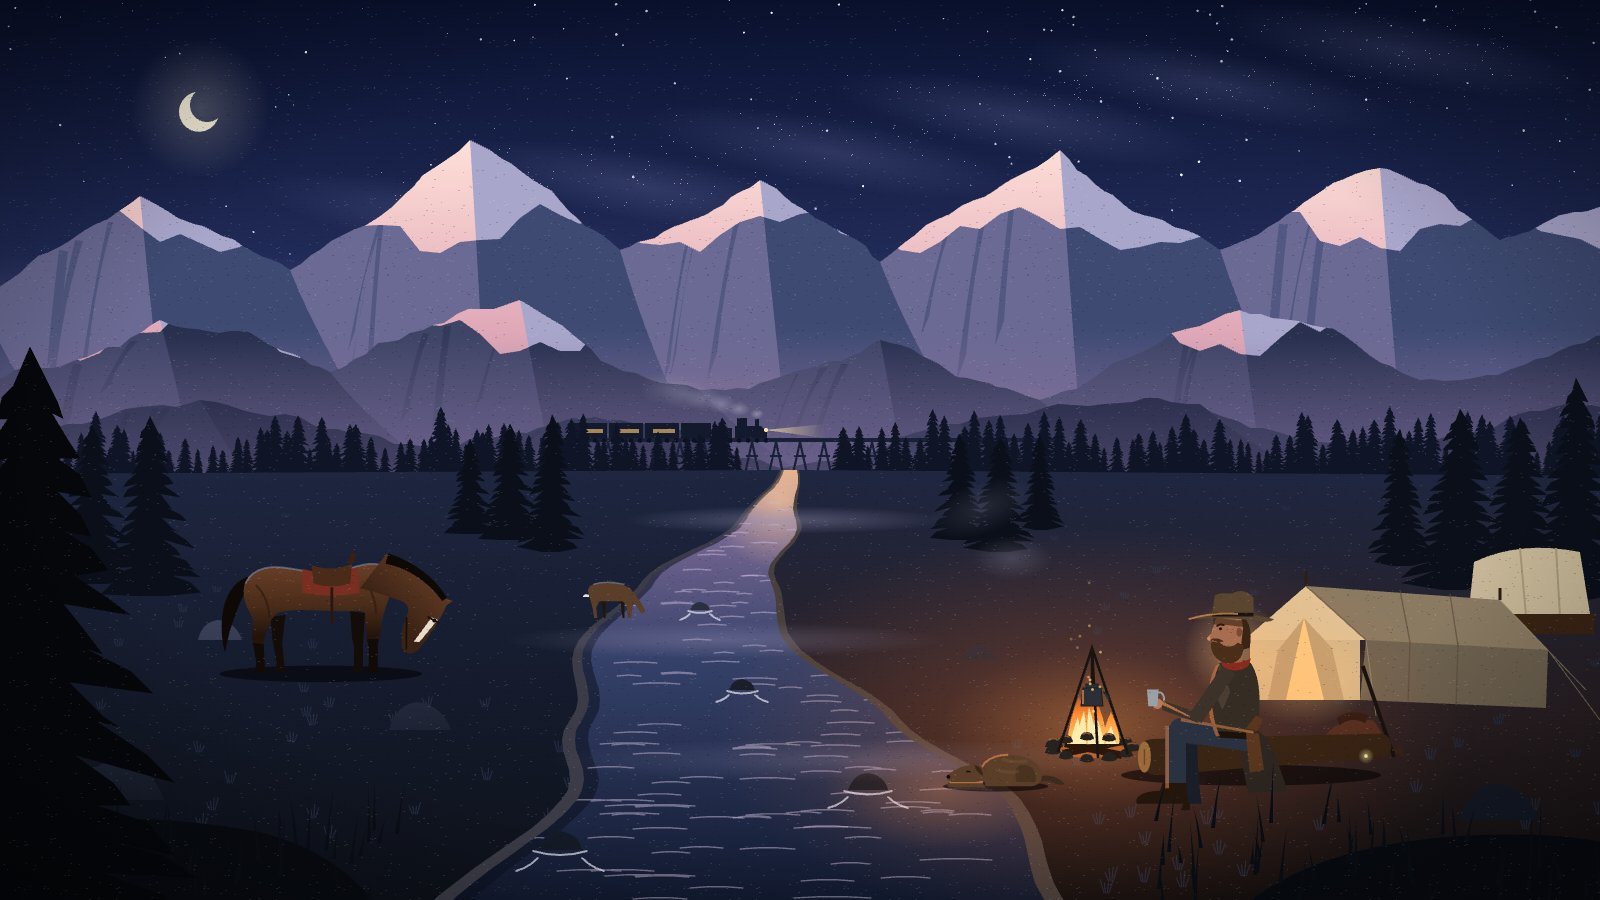
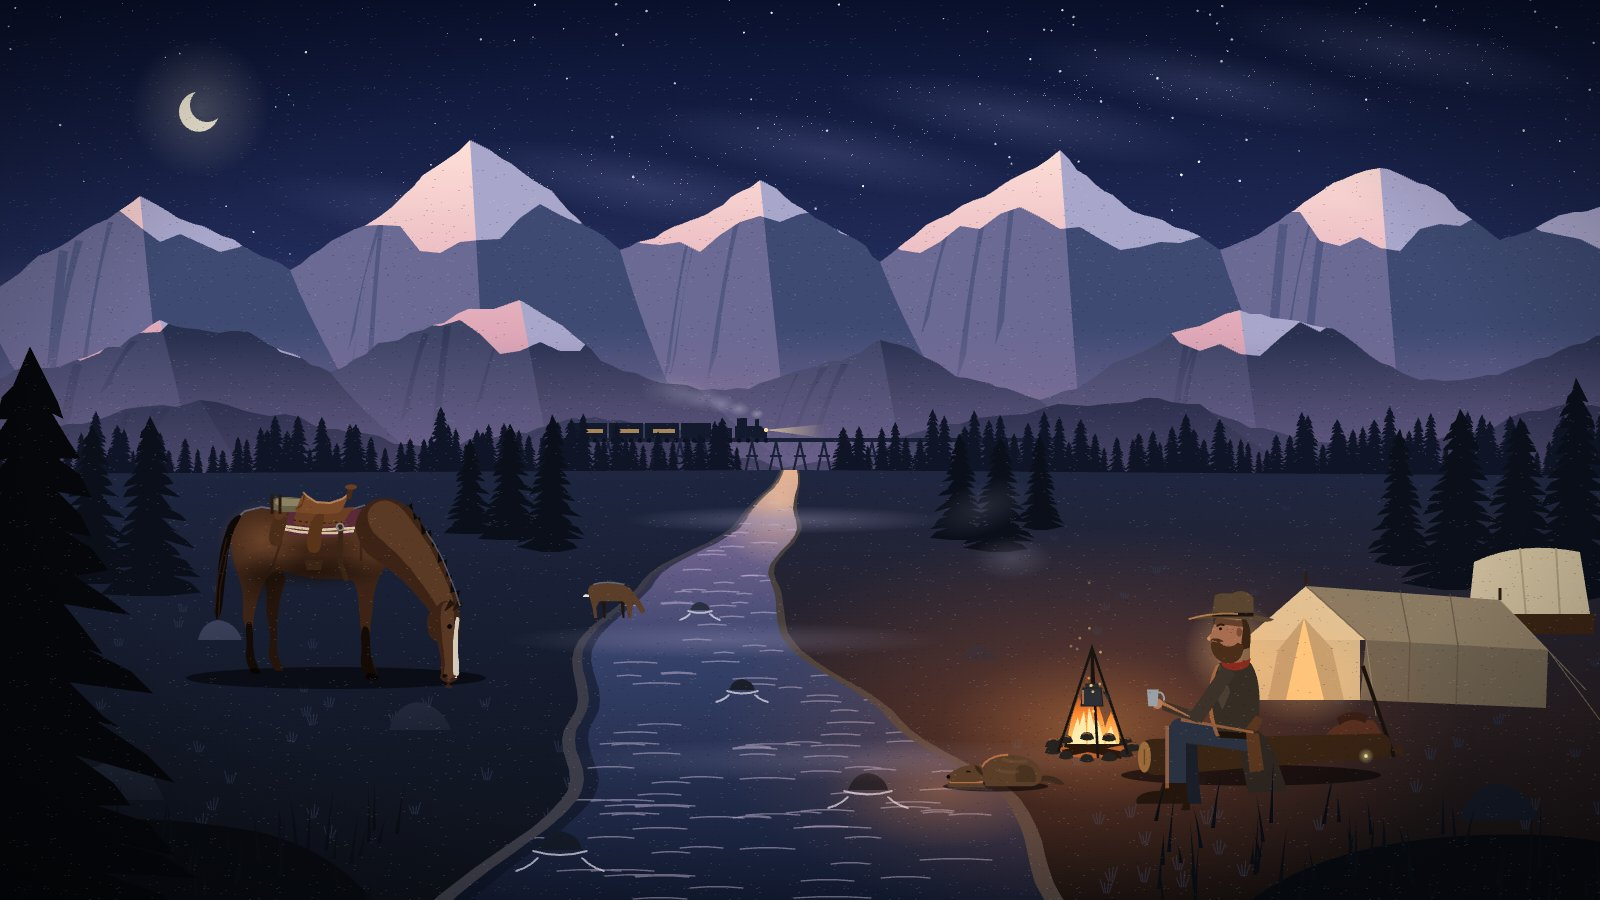
feat: rebuild the Red Dead Redemption 2 horse
The horse is now one shape: the hindquarter runs down into the gaskin and
the hock, the shoulder into the forearm, with lean lower legs, a sloped
pastern and hooves. The neck grows from the whole front of the shoulder
and bends to graze without a break. A western saddle sits on the barrel,
and the tail falls close down the back of the thigh.

Changed region(s): [[0.125, 0.5289, 0.3125, 0.7778]]

diff --git a/plugins/red-dead-redemption-2/hooks/scene.js b/plugins/red-dead-redemption-2/hooks/scene.js
@@ -364,35 +364,290 @@ function land() {
 
 // ---------------------------------------------------------------- the horse
 
-// A bay horse grazing on the left bank, side on, facing right: a brown coat shaded
-// darker underneath, black mane, tail and lower legs, a white blaze. Its neck lowers
-// to the grass and rises again; its tail swishes.
-function horse() {
-  const body = 'M-60 -114C-78 -114 -94 -104 -94 -88C-94 -76 -88 -66 -84 -58C-84 -48 -86 -40 -84 -32L-80 -10L-82 0H-70L-71 -10L-72 -30C-70 -44 -66 -56 -58 -64C-40 -70 -10 -66 16 -66C26 -66 34 -68 38 -64L40 -36L42 -28L42 -8L40 0H52L52 -8L52 -30L54 -40C56 -56 60 -70 64 -80C70 -96 66 -108 56 -116C40 -122 20 -110 0 -108C-20 -106 -40 -114 -60 -114Z'
-  const socks = 'M-84 -32L-80 -10L-82 0H-70L-71 -10L-72 -30ZM40 -36L42 -28L42 -8L40 0H52L52 -8L52 -30L53 -36Z'
-  const farLegs = 'M-66 -60C-62 -48 -64 -40 -62 -32L-58 -10L-60 0H-48L-50 -10L-52 -32C-50 -44 -50 -54 -48 -62ZM22 -66L24 -36L26 -28L26 -8L24 0H36L36 -8L36 -30L38 -64Z'
-  const neck = 'M34 -116C50 -140 76 -158 98 -164L103 -171L106 -163L112 -158C122 -148 136 -132 144 -120C148 -112 144 -104 136 -104C126 -106 114 -110 106 -118C96 -126 90 -122 84 -112C76 -100 68 -90 62 -78Z'
-  const mane = 'M34 -118C50 -142 74 -160 98 -166L100 -160C78 -152 56 -136 44 -112Z'
-  const blaze = 'M118 -150L136 -124L134 -118L114 -144Z'
-  const tail = 'M-90 -104Q-112 -90 -110 -56Q-108 -34 -100 -18Q-100 -44 -96 -60Q-94 -78 -88 -90Z'
-  const muscle = 'M-80 -94C-70 -84 -66 -70 -66 -60M40 -96C46 -86 50 -76 50 -64M-20 -100C-10 -98 10 -98 30 -104'
-  const piv = '56 -104'
-  const graze = timeline('', 23, [[0, `0 ${piv}`], [4, `14 ${piv}`], [4.5, `30 ${piv}`], [5, `48 ${piv}`], [5.5, `62 ${piv}`], [6, `74 ${piv}`], [14, `66 ${piv}`], [14.5, `48 ${piv}`], [15, `28 ${piv}`], [15.5, `10 ${piv}`], [16, `0 ${piv}`]], 'rotate')
-  const swish = timeline('', 7, [[0, '0 -90 -100'], [2, '10 -90 -100'], [2.25, '18 -90 -100'], [2.5, '8 -90 -100'], [2.75, '-6 -90 -100'], [3, '0 -90 -100']], 'rotate')
-  return `<g transform="translate(330 672) scale(0.92)">` +
-    `<ellipse cx="-10" cy="2" rx="110" ry="9" fill="#05070c" opacity="0.7"/>` +
-    `<path d="${farLegs}" fill="#140c08"/>` +
-    `<g>${swish}<path d="${tail}" fill="#0e0806"/></g>` +
-    `<path d="${body}" fill="url(#r-bay)"/><path d="${socks}" fill="#120a06"/>` +
-    `<path d="${muscle}" fill="none" stroke="#2a180e" stroke-width="2.4" opacity="0.6" stroke-linecap="round"/>` +
-    `<path d="M-92 -96C-86 -110 -72 -114 -60 -114C-40 -114 -20 -106 0 -108C20 -110 40 -122 56 -116" fill="none" stroke="#8a9ac0" stroke-width="2" opacity="0.5"/>` +
-    // The saddle: tree, horn, skirt, a blanket under it, the cinch.
-    `<path d="M-30 -112Q0 -104 30 -114L32 -86Q2 -80 -30 -86Z" fill="#7a2e22"/><path d="M-20 -116Q4 -108 24 -118L22 -96Q2 -90 -18 -96Z" fill="#4a2a18"/>` +
-    `<path d="M18 -118l6 -12l5 2l-4 10z" fill="#3a2010"/><path d="M2 -92v40" stroke="#2a160e" stroke-width="3"/>` +
-    `<g>${graze}<path d="${neck}" fill="url(#r-bayN)"/><path d="${mane}" fill="#0e0806"/><path d="${blaze}" fill="#e8dccc"/><circle cx="118" cy="-146" r="2.2" fill="#0a0604"/>` +
-    `<path d="M106 -118Q126 -112 140 -108M112 -140L122 -150" stroke="#1a100a" stroke-width="2" fill="none"/></g>` +
-    `</g>`
+// A bay horse grazing on the left bank, built in 3D: the body, neck, head, legs and
+// tail are tubes along a skeleton in metres, seen through a camera from in front
+// and to the left of it, so it has real depth and foreshortening. Each tube is
+// drawn as its projected outline, then a lighter core shifted up for the rounded
+// top and a cold rim of sky light. The neck is a chain from the withers to the poll
+// that bends down to the grass and back up, in six poses swapped on the clock; the
+// tail swishes. x runs forward, y to the horse's right (the near side is y < 0),
+// z up.
+const HC = { yaw: -22, D: 11, F: 1150, eye: 1.5, cx: 326, gy: 676 }
+function hp(x, y, z) {
+  const c = Math.cos((HC.yaw * Math.PI) / 180)
+  const s = Math.sin((HC.yaw * Math.PI) / 180)
+  const xr = x * c - y * s
+  const d = HC.D + x * s + y * c
+  return [HC.cx + (HC.F * xr) / d, HC.gy + (HC.F * (HC.eye - z)) / d - (HC.F * HC.eye) / HC.D, d]
 }
+// A tube along 3D points [x, y, z, r]: its projected outline with round ends, as a
+// path; `lift` shifts it up by part of its radius and `k` scales the radius, for
+// the lit core.
+function htube(pts0, k = 1, lift = 0) {
+  // Resample the skeleton along a Catmull-Rom curve, so joints bend smoothly.
+  const pts3 = []
+  for (let i = 0; i < pts0.length - 1; i++) {
+    const p0 = pts0[Math.max(0, i - 1)]
+    const p1 = pts0[i]
+    const p2 = pts0[i + 1]
+    const p3 = pts0[Math.min(pts0.length - 1, i + 2)]
+    const steps = pts0.length > 6 ? 1 : pts0.length > 3 ? 2 : 3
+    for (let j = 0; j < steps; j++) {
+      const t = j / steps
+      pts3.push(p1.map((_, c) => 0.5 * (2 * p1[c] + (-p0[c] + p2[c]) * t + (2 * p0[c] - 5 * p1[c] + 4 * p2[c] - p3[c]) * t * t + (-p0[c] + 3 * p1[c] - 3 * p2[c] + p3[c]) * t * t * t)))
+    }
+  }
+  pts3.push(pts0[pts0.length - 1])
+  const P = pts3.map(([x, y, z, r]) => {
+    const [X, Y, d] = hp(x, y, z)
+    const sr = (r * HC.F) / d
+    return [X, Y - lift * sr, sr * k]
+  })
+  const n = P.length
+  const L = []
+  const R = []
+  const T = []
+  for (let i = 0; i < n; i++) {
+    const a = P[Math.max(0, i - 1)]
+    const b = P[Math.min(n - 1, i + 1)]
+    let tx = b[0] - a[0]
+    let ty = b[1] - a[1]
+    const l = Math.hypot(tx, ty) || 1
+    tx /= l
+    ty /= l
+    T.push([tx, ty])
+    L.push([P[i][0] - ty * P[i][2], P[i][1] + tx * P[i][2]])
+    R.push([P[i][0] + ty * P[i][2], P[i][1] - tx * P[i][2]])
+  }
+  const cap = (i, dir) => {
+    const [x, y, sr] = P[i]
+    const [tx, ty] = T[i]
+    const out = []
+    for (const a of [0.5, 0, -0.5]) {
+      const ang = Math.atan2(ty * dir, tx * dir) + a * 1.4
+      out.push([x + Math.cos(ang) * sr, y + Math.sin(ang) * sr])
+    }
+    return out
+  }
+  const ring = [...L, ...cap(n - 1, 1).reverse(), ...R.reverse(), ...cap(0, -1)]
+  // A smooth closed outline: curves through the midpoints, the points as controls.
+  const m = (i) => ring[(i + ring.length) % ring.length]
+  const mid = (i) => [(m(i)[0] + m(i + 1)[0]) / 2, (m(i)[1] + m(i + 1)[1]) / 2]
+  let d = `M${n0(mid(0)[0])} ${n0(mid(0)[1])}`
+  for (let i = 1; i <= ring.length; i++) d += `Q${n0(m(i)[0])} ${n0(m(i)[1])} ${n0(mid(i)[0])} ${n0(mid(i)[1])}`
+  return { d: d + 'Z', L, R: R.reverse(), P }
+}
+// A quadratic curve through 3D points, sampled.
+const qb = (a, c, b, n, r0, r1) => Array.from({ length: n }, (_, i) => {
+  const t = i / (n - 1)
+  const u = 1 - t
+  return [0, 1, 2].map((k) => u * u * a[k] + 2 * u * t * c[k] + t * t * b[k]).concat(r0 + (r1 - r0) * t)
+})
+function horse() {
+  const COAT = '#3c2316'
+  const LIT = '#64402a'
+  const DARK = '#140b07'
+  const FAR = '#24140c'
+  const RIM = '#8a9ac0'
+  const shade = (pts, base, lit = LIT) => {
+    const t = htube(pts)
+    return `<path d="${t.d}" fill="${base}"/><path d="${htube(pts, 0.62, 0.32).d}" fill="${lit}" opacity="0.75"/>`
+  }
+  // The legs, as side-view profiles in metres: the front edge from top to hoof,
+  // then the back edge from top to heel. A fore leg: a muscled forearm, the bony
+  // knee, a thin cannon, the fetlock, a sloped pastern, a flared hoof. A hind leg:
+  // the gaskin's swell, the sharp point of the hock behind, then the same below.
+  const smoothPath = (ring) => {
+    const m = (i) => ring[(i + ring.length) % ring.length]
+    const mid = (i) => [(m(i)[0] + m(i + 1)[0]) / 2, (m(i)[1] + m(i + 1)[1]) / 2]
+    let d = `M${n0(mid(0)[0])} ${n0(mid(0)[1])}`
+    for (let i = 1; i <= ring.length; i++) d += `Q${n0(m(i)[0])} ${n0(m(i)[1])} ${n0(mid(i)[0])} ${n0(mid(i)[1])}`
+    return d + 'Z'
+  }
+  // The part of an edge below height z0, with the point where it crosses z0.
+  const below = (edge, z0) => {
+    const out = []
+    for (let i = 0; i < edge.length; i++) {
+      const [x, z] = edge[i]
+      if (z <= z0) {
+        if (i > 0 && edge[i - 1][1] > z0) {
+          const [px, pz] = edge[i - 1]
+          out.push([px + ((x - px) * (pz - z0)) / (pz - z), z0])
+        }
+        out.push([x, z])
+      }
+    }
+    return out
+  }
+  // The body: rump, loin, barrel, girth and chest along a gently dipping back.
+  const body = [[-0.86, 0, 1.36, 0.26], [-0.66, 0, 1.34, 0.33], [-0.34, 0, 1.28, 0.33], [0.0, 0, 1.22, 0.36], [0.34, 0, 1.24, 0.35], [0.62, 0, 1.3, 0.29]]
+  // The tail, from its root over the rump, falling to the hocks.
+  const [rx, ry] = hp(-0.86, -0.1, 1.54)
+  const swish = timeline('', 7, [[0, `0 ${n0(rx)} ${n0(ry)}`], [2, `10 ${n0(rx)} ${n0(ry)}`], [2.25, `16 ${n0(rx)} ${n0(ry)}`], [2.5, `6 ${n0(rx)} ${n0(ry)}`], [2.75, `-6 ${n0(rx)} ${n0(ry)}`], [3, `0 ${n0(rx)} ${n0(ry)}`]], 'rotate')
+  // The saddle, built on the barrel's surface: a point at length x along the body
+  // and angle th (degrees) round from the top of the back down the near side.
+  const surf = (x, th, out = 0) => {
+    let k = 1
+    while (k < body.length - 1 && body[k][0] < x) k++
+    const [x0, , z0, r0] = body[k - 1]
+    const [x1, , z1, r1] = body[k]
+    const u = Math.min(1, Math.max(0, (x - x0) / (x1 - x0)))
+    const zc = z0 + (z1 - z0) * u
+    const r = r0 + (r1 - r0) * u + out
+    const t = (th * Math.PI) / 180
+    return hp(x, -r * Math.sin(t), zc + r * Math.cos(t))
+  }
+  const poly = (ps) => smoothPath(ps)
+  const sheet = (x0, x1, th0, th1, out, round = 0) => {
+    const ps = []
+    for (let i = 0; i <= 4; i++) ps.push(surf(x0 + ((x1 - x0) * i) / 4, th0, out))
+    for (let j = 1; j <= 3; j++) ps.push(surf(x1 - round * (j === 3 ? 1 : 0), th0 + ((th1 - th0) * j) / 3, out))
+    for (let i = 4; i >= 0; i--) ps.push(surf(x0 + ((x1 - x0) * i) / 4 + (i === 0 || i === 4 ? (i ? -round : round) : 0), th1, out))
+    for (let j = 2; j >= 1; j--) ps.push(surf(x0 + round * (j === 2 ? 1 : 0), th0 + ((th1 - th0) * j) / 3, out))
+    return ps
+  }
+  const strip = (x0, x1, th, out) => 'M' + [0, 1, 2, 3, 4].map((i) => surf(x0 + ((x1 - x0) * i) / 4, th, out)).map(([X, Y]) => `${n0(X)} ${n0(Y)}`).join('L')
+  // The blanket: a wool pad, two cream stripes near its edge.
+  const blanket = poly(sheet(-0.32, 0.42, -12, 74, 0.012, 0.02))
+  const stripes = strip(-0.31, 0.41, 62, 0.014) + strip(-0.31, 0.41, 67, 0.014)
+  // The skirt: a leather panel with rounded corners, tooled along its border.
+  const skirt = poly(sheet(-0.26, 0.32, -8, 58, 0.03, 0.04))
+  const tool = strip(-0.22, 0.28, 52, 0.032)
+  // The seat: the cantle raised at the back, a dip, the swell and horn at the front.
+  const seatTop = [[-0.24, 0.13], [-0.2, 0.1], [-0.1, 0.045], [0.04, 0.04], [0.16, 0.08], [0.24, 0.12]]
+  const seat = [...seatTop.map(([x, dz]) => surf(x, 0, 0.03 + dz)), ...seatTop.slice().reverse().map(([x]) => surf(x, 34, 0.035))]
+  const cantle = poly([surf(-0.27, -10, 0.05), surf(-0.25, -6, 0.17), surf(-0.19, 6, 0.13), surf(-0.18, 30, 0.05), surf(-0.26, 30, 0.04)])
+  const [hbx, hby] = surf(0.25, 4, 0.12)
+  const [htx, hty] = surf(0.27, 4, 0.22)
+  // The fender and stirrup hanging from the seat; the cinch under the belly.
+  const fender = poly([surf(-0.02, 30, 0.04), surf(0.08, 30, 0.04), surf(0.1, 70, 0.045), surf(0.11, 95, 0.05), surf(-0.03, 95, 0.05), surf(-0.04, 70, 0.045)])
+  const [fx, fy] = surf(0.04, 104, 0.06)
+  const stirrup = `M${n0(fx - 9)} ${n0(fy)}h18l-2 10h-14z`
+  const cinch = 'M' + [surf(0.28, 56, 0.035), surf(0.28, 110, 0.02), surf(0.28, 150, 0.01)].map(([X, Y]) => `${n0(X)} ${n0(Y)}`).join('L')
+  const ring = surf(0.28, 60, 0.04)
+  // The bedroll tied across behind the cantle, its straps, and a saddlebag below.
+  const roll = htube([[-0.36, -0.3, 1.64, 0.07], [-0.36, 0.28, 1.64, 0.07]])
+  const bag = poly([surf(-0.42, 28, 0.04), surf(-0.3, 28, 0.04), surf(-0.29, 88, 0.05), surf(-0.33, 96, 0.05), surf(-0.41, 94, 0.05), surf(-0.44, 80, 0.045)])
+  const bagFlap = poly([surf(-0.42, 28, 0.045), surf(-0.3, 28, 0.045), surf(-0.3, 52, 0.05), surf(-0.36, 58, 0.05), surf(-0.42, 52, 0.05)])
+  const strapAt = (x) => { const [a1, b1] = hp(x, -0.37, 1.64); return `M${n0(a1)} ${n0(b1 - 10)}v20` }
+  const SADDLE = `<path d="${blanket}" fill="#5a2a3a"/><path d="${stripes}" fill="none" stroke="#d8c8a0" stroke-width="2.6"/>` +
+    `<path d="${bag}" fill="#4a2c18"/><path d="${bagFlap}" fill="#5a3620"/>` +
+    `<path d="${skirt}" fill="#6a3e22"/><path d="${tool}" fill="none" stroke="#3a2010" stroke-width="1.4" stroke-dasharray="3 3"/>` +
+    `<path d="${fender}" fill="#5a3418"/>` +
+    `<path d="${roll.d}" fill="#6a6248"/><path d="${htube([[-0.36, -0.3, 1.64, 0.07], [-0.36, 0.28, 1.64, 0.07]], 0.5, 0.35).d}" fill="#8a8262"/><path d="${strapAt(-0.4)}${strapAt(-0.32)}" stroke="#2a180c" stroke-width="3"/>` +
+    `<path d="${smoothPath(seat)}" fill="#7a4a28"/><path d="${cantle}" fill="#5a3418"/>` +
+    `<path d="M${seatTop.map(([x, dz]) => surf(x, 0, 0.03 + dz)).map(([X, Y]) => `${n0(X)} ${n0(Y)}`).join('L')}" fill="none" stroke="#c89060" stroke-width="2" opacity="0.8"/>` +
+    `<path d="M${n0(hbx)} ${n0(hby)}L${n0(htx)} ${n0(hty)}" stroke="#4a2a14" stroke-width="5" stroke-linecap="round"/><ellipse cx="${n0(htx)}" cy="${n0(hty)}" rx="6" ry="2.6" fill="#6a3e22"/>` +
+    `<path d="${cinch}" fill="none" stroke="#3a2414" stroke-width="5"/><circle cx="${n0(ring[0])}" cy="${n0(ring[1])}" r="3.4" fill="none" stroke="#8a8a90" stroke-width="1.6"/>` +
+    `<path d="${stirrup}" fill="#3a2414"/>`
+  // The neck and head in a pose: g = 0 head up, 1 grazing.
+  // The neck grows out of the whole front of the shoulder, from the withers to the
+  // point of the shoulder, so the chest never shows in front of it.
+  const B = [0.6, 0, 1.42]
+  const pose = (g) => {
+    const a = ((48 - 100 * g) * Math.PI) / 180
+    const L = 0.98
+    const poll = [B[0] + Math.cos(a) * L, 0, B[2] + Math.sin(a) * L]
+    // The crest arches up, more when the head is up.
+    const mid = [(B[0] + poll[0]) / 2, 0, (B[2] + poll[2]) / 2]
+    const ctl = [mid[0] - Math.sin(a) * (0.16 - 0.06 * g), 0, mid[2] + Math.cos(a) * (0.16 - 0.06 * g)]
+    const neck = qb(B, ctl, poll, 8, 0.3, 0.13)
+    const h = ((-40 - 48 * g) * Math.PI) / 180
+    const hl = 0.62
+    const dir = [Math.cos(h), Math.sin(h)]
+    const dors = [-Math.sin(h), Math.cos(h)]
+    const at = (t, off, y = 0, r = 0) => [poll[0] + dir[0] * hl * t + dors[0] * off, y, poll[2] + dir[1] * hl * t + dors[1] * off, r]
+    const head = [at(0, 0, 0, 0.115), at(0.3, -0.01, 0, 0.11), at(0.62, 0, 0, 0.08), at(0.86, -0.005, 0, 0.074), at(1, -0.01, 0, 0.082)]
+    const cheek = [at(0.08, -0.07, 0, 0.12), at(0.26, -0.06, 0, 0.13), at(0.36, -0.03, 0, 0.09)]
+    const nt = htube(neck)
+    // The mane: a ragged band along the crest, on its upper edge.
+    const crest = nt.R
+    let mane = 'M' + crest.map(([x, y]) => `${n0(x)} ${n0(y)}`).join('L')
+    for (let i = crest.length - 1; i >= 0; i--) {
+      const [x, y] = crest[i]
+      const [px, py, sr] = nt.P[i]
+      const ox = (x - px) / (sr || 1)
+      const oy = (y - py) / (sr || 1)
+      const len = (i % 2 ? 5 : 9) + (1 - i / crest.length) * 2
+      mane += `L${n0(x + ox * len * 0.4 - oy * 2)} ${n0(y + oy * len * 0.4 + ox * 2)}L${n0(x - ox * len * 0.6)} ${n0(y - oy * len * 0.6)}`
+    }
+    mane += 'Z'
+    // Ears at the poll, eye, nostril, a white blaze down the face.
+    const [px, py] = hp(...poll)
+    const up = a + Math.PI / 2
+    const ear = (dx) => `M${n0(px + dx)} ${n0(py)}l${n0(Math.cos(up + 0.5) * 14)} ${n0(-Math.sin(up + 0.5) * 14)}l${n0(Math.cos(up - 0.2) * 6)} ${n0(Math.sin(up - 0.2) * -6 + 8)}z`
+    const [ex, ey] = hp(...at(0.2, 0.04, -0.09))
+    const [mx, my] = hp(...at(0.93, -0.03, -0.06))
+    const blaze = htube([at(0.1, 0.1, -0.03, 0.018), at(0.5, 0.07, -0.03, 0.022), at(0.92, 0.07, -0.03, 0.03)])
+    return `<path d="${nt.d}" fill="${COAT}"/><path d="${htube(neck, 0.6, 0.3).d}" fill="${LIT}" opacity="0.75"/>` +
+      `<path d="${htube(cheek).d}" fill="${COAT}"/><path d="${htube(head).d}" fill="${COAT}"/><path d="${htube(head, 0.55, 0.3).d}" fill="${LIT}" opacity="0.7"/>` +
+      `<path d="${blaze.d}" fill="#e6dccc" opacity="0.9"/><ellipse cx="${n0(mx)}" cy="${n0(my)}" rx="2.6" ry="1.8" fill="#120a06"/>` +
+      `<path d="${mane}" fill="#0e0806"/><path d="${ear(-4)}${ear(4)}" fill="#24140c"/><circle cx="${n1(ex)}" cy="${n1(ey)}" r="2.4" fill="#0a0604"/>` +
+      `<path d="M${crest.slice(2).map(([x, y]) => `${n0(x)} ${n0(y)}`).join('L')}" fill="none" stroke="${RIM}" stroke-width="1.6" opacity="0.45"/>`
+  }
+  const G = [0, 0.25, 0.5, 0.75, 1]
+  // Lowering over one second (a pose every 6 ticks), grazing, raising, standing.
+  const step = 1 / 4
+  const vis = (k) => k === 0 ? [[0, 1], [4, 0], [15, 1]] : k === 4 ? [[0, 0], [4 + 3 * step, 1], [14, 0]]
+    : [[0, 0], [4 + (k - 1) * step, 1], [4 + k * step, 0], [14 + (3 - k) * step, 1], [14 + (4 - k) * step, 0]]
+  const poses = G.map((g, k) => `<g opacity="${k ? 0 : 1}">${timeline('opacity', 23, vis(k))}${pose(g)}</g>`).join('')
+  // The horse in one piece, as it stands side on: the outline of the body, with
+  // the near legs growing out of it. The hindquarter is one mass: the croup rounds
+  // over into the buttock, down the back of the thigh and the gaskin to the point
+  // of the hock; in front the stifle and the flank run up into the belly. The
+  // shoulder and chest carry down into the forearm and the knee. Below the knee and
+  // the hock the legs are lean: cannon, fetlock, sloped pastern, hoof. [x, z] in
+  // metres, the near side at y = -0.12.
+  const SIL = [
+    [0.44, 1.63], [0.2, 1.56], [-0.1, 1.55], [-0.38, 1.58], [-0.62, 1.62], [-0.8, 1.58], [-0.9, 1.5], [-0.96, 1.36],
+    [-0.95, 1.18], [-0.89, 0.98], [-0.82, 0.8], [-0.82, 0.66], [-0.83, 0.56],
+    [-0.79, 0.44], [-0.78, 0.26], [-0.8, 0.16], [-0.76, 0.05], [-0.74, 0.0], [-0.62, 0.0], [-0.66, 0.07], [-0.7, 0.17], [-0.71, 0.26], [-0.71, 0.5],
+    [-0.69, 0.62], [-0.65, 0.78], [-0.57, 0.94], [-0.47, 1.02], [-0.25, 0.96], [0.05, 0.93], [0.28, 0.95],
+    [0.35, 0.9], [0.37, 0.76], [0.39, 0.6], [0.4, 0.48], [0.41, 0.26], [0.39, 0.16], [0.44, 0.06], [0.45, 0.0], [0.58, 0.0], [0.55, 0.07], [0.51, 0.17], [0.49, 0.26], [0.49, 0.5],
+    [0.51, 0.6], [0.52, 0.78], [0.58, 0.97], [0.67, 1.1], [0.73, 1.28], [0.72, 1.42], [0.6, 1.56],
+  ]
+  const near = (pts) => pts.map(([x, z]) => hp(x, -0.12, z))
+  const sil = smoothPath(near(SIL))
+  // The lower legs, darker below the knee and hock, and the hooves.
+  const lowF = smoothPath(near([[0.4, 0.5], [0.41, 0.26], [0.39, 0.16], [0.44, 0.06], [0.45, 0.0], [0.58, 0.0], [0.55, 0.07], [0.51, 0.17], [0.49, 0.26], [0.49, 0.5]]))
+  const lowH = smoothPath(near([[-0.8, 0.5], [-0.78, 0.26], [-0.8, 0.16], [-0.76, 0.05], [-0.74, 0.0], [-0.62, 0.0], [-0.66, 0.07], [-0.7, 0.17], [-0.71, 0.26], [-0.71, 0.5]]))
+  const hooves = smoothPath(near([[0.44, 0.06], [0.45, 0.0], [0.58, 0.0], [0.55, 0.07]])) + smoothPath(near([[-0.76, 0.05], [-0.74, 0.0], [-0.62, 0.0], [-0.66, 0.07]]))
+  // The far legs, behind the body: the far fore a step back, the far hind a step
+  // forward, so the four legs read apart.
+  const far = (pts, dx) => smoothPath(pts.map(([x, z]) => hp(x + dx, 0.16, z)))
+  const farF = far([[0.36, 1.0], [0.37, 0.76], [0.39, 0.6], [0.4, 0.48], [0.41, 0.26], [0.39, 0.16], [0.44, 0.06], [0.45, 0.0], [0.58, 0.0], [0.55, 0.07], [0.51, 0.17], [0.49, 0.26], [0.49, 0.5], [0.51, 0.6], [0.52, 0.78], [0.54, 1.0]], -0.1)
+  const farH = far([[-0.88, 1.0], [-0.82, 0.8], [-0.82, 0.66], [-0.83, 0.56], [-0.79, 0.44], [-0.78, 0.26], [-0.8, 0.16], [-0.76, 0.05], [-0.74, 0.0], [-0.62, 0.0], [-0.66, 0.07], [-0.7, 0.17], [-0.71, 0.26], [-0.71, 0.5], [-0.69, 0.62], [-0.65, 0.78], [-0.6, 1.0]], 0.12)
+  // Light and shade: the round of the hindquarter and of the shoulder lit from the
+  // sky, the belly and the inside of the thigh in shadow.
+  const at = (x, z) => hp(x, -0.12, z)
+  const [qx, qy] = at(-0.62, 1.3)
+  const [sx2, sy2] = at(0.48, 1.3)
+  const [bx2, by2] = at(-0.1, 1.38)
+  const [ux, uy] = at(-0.1, 1.0)
+  const [gx, gy2] = at(-0.62, 0.92)
+  // Muscle lines: the edge of the hindquarter, the line of the shoulder.
+  const lines = 'M' + [at(-0.45, 1.5), at(-0.42, 1.28), at(-0.5, 1.06), at(-0.58, 0.96)].map(([X, Y]) => `${n0(X)} ${n0(Y)}`).join('L') +
+    'M' + [at(0.48, 1.58), at(0.4, 1.36), at(0.4, 1.12)].map(([X, Y]) => `${n0(X)} ${n0(Y)}`).join('L')
+  const back = 'M' + SIL.slice(0, 8).map(([x, z]) => at(x, z)).map(([X, Y]) => `${n0(X)} ${n0(Y)}`).join('L')
+  // The tail: falling from its root close down the back of the thigh, full in the
+  // middle, tapering to the hocks, a few loose hairs.
+  const TAIL = [[-0.84, 1.56], [-0.94, 1.5], [-1.0, 1.32], [-1.01, 1.08], [-0.99, 0.84], [-0.96, 0.62], [-0.92, 0.46], [-0.88, 0.56], [-0.9, 0.82], [-0.92, 1.1], [-0.92, 1.32], [-0.88, 1.46]]
+  const tailD = smoothPath(TAIL.map(([x, z]) => hp(x, -0.1, z)))
+  const hairs = 'M' + [hp(-0.96, -0.1, 1.3), hp(-0.98, -0.1, 0.9), hp(-0.95, -0.1, 0.55)].map(([X, Y]) => `${n0(X)} ${n0(Y)}`).join('L') +
+    'M' + [hp(-0.93, -0.1, 1.2), hp(-0.94, -0.1, 0.8), hp(-0.9, -0.1, 0.5)].map(([X, Y]) => `${n0(X)} ${n0(Y)}`).join('L')
+  return `<ellipse cx="${n0(HC.cx + 10)}" cy="${HC.gy + 2}" rx="150" ry="11" fill="#05070c" opacity="0.7"/>` +
+    `<path d="${farF}${farH}" fill="${FAR}"/>` +
+    `<path d="${sil}" fill="${COAT}"/>` +
+    blob('r-hlit', qx, qy, 46, 40, 0.8) + blob('r-hlit', sx2, sy2, 34, 36, 0.6) + blob('r-hlit', bx2, by2, 60, 16, 0.5) +
+    blob('r-hshade', ux, uy, 80, 18, 0.8) + blob('r-hshade', gx, gy2, 26, 30, 0.6) +
+    `<path d="${lines}" fill="none" stroke="#24140c" stroke-width="2.4" opacity="0.5" stroke-linecap="round"/>` +
+    `<path d="${lowF}${lowH}" fill="${DARK}"/><path d="${hooves}" fill="#070403"/>` +
+    `<path d="${back}" fill="none" stroke="${RIM}" stroke-width="1.8" opacity="0.5"/>` +
+    `<g>${swish}<path d="${tailD}" fill="#0e0806"/><path d="${hairs}" fill="none" stroke="#2a1810" stroke-width="1.4"/></g>` +
+    SADDLE +
+    poses
+}
+
 
 // ---------------------------------------------------------------- wildlife
 
@@ -520,7 +775,7 @@ function fire() {
     const dx = (rng() - 0.5) * 60
     const h = 80 + rng() * 120
     const begin = -Math.round(rng() * dur * 24) / 24
-    sparks += `<circle r="1.4" fill="#ffd37a">${ticked('transform', 'translate', dur, 1, (u) => `${n1(x + dx * u + Math.sin(u * 9) * 4)} ${n1(y - 30 - h * u)}`, begin)}${ticked('opacity', '', dur, 1, (u) => n2(1 - u), begin)}</circle>`
+    sparks += `<circle r="1.4" fill="#ffd37a">${ticked('transform', 'translate', dur, 2, (u) => `${n1(x + dx * u + Math.sin(u * 9) * 4)} ${n1(y - 30 - h * u)}`, begin)}${ticked('opacity', '', dur, 2, (u) => n2(1 - u), begin)}</circle>`
   }
   // Stones round the fire, an ellipse of them, each lit on its top.
   let stones = ''
@@ -647,6 +902,8 @@ export function buildScene() {
     <radialGradient id="r-steam"><stop offset="0" stop-color="#b8b4cc" stop-opacity="0.9"/><stop offset="1" stop-color="#b8b4cc" stop-opacity="0"/></radialGradient>
     <linearGradient id="r-lamp" x1="0" y1="0" x2="1" y2="0"><stop offset="0" stop-color="#ffe6a0" stop-opacity="0.7"/><stop offset="1" stop-color="#ffe6a0" stop-opacity="0"/></linearGradient>
     <radialGradient id="r-milk"><stop offset="0" stop-color="#9aa0d8" stop-opacity="0.35"/><stop offset="1" stop-color="#9aa0d8" stop-opacity="0"/></radialGradient>
+    <radialGradient id="r-hlit"><stop offset="0" stop-color="#7a4e30" stop-opacity="0.9"/><stop offset="1" stop-color="#7a4e30" stop-opacity="0"/></radialGradient>
+    <radialGradient id="r-hshade"><stop offset="0" stop-color="#160c06" stop-opacity="0.8"/><stop offset="1" stop-color="#160c06" stop-opacity="0"/></radialGradient>
     <radialGradient id="r-mist"><stop offset="0" stop-color="#9a94b8" stop-opacity="0.6"/><stop offset="1" stop-color="#9a94b8" stop-opacity="0"/></radialGradient>
     <radialGradient id="r-fly"><stop offset="0" stop-color="#f8f0a0" stop-opacity="0.7"/><stop offset="1" stop-color="#f8f0a0" stop-opacity="0"/></radialGradient>
   </defs>
